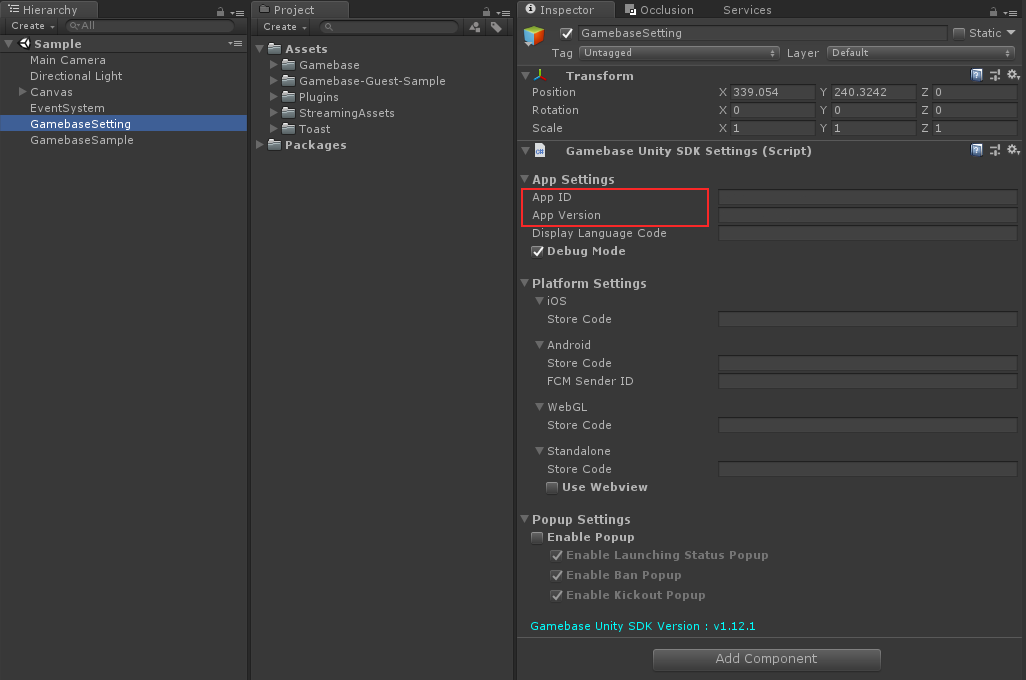
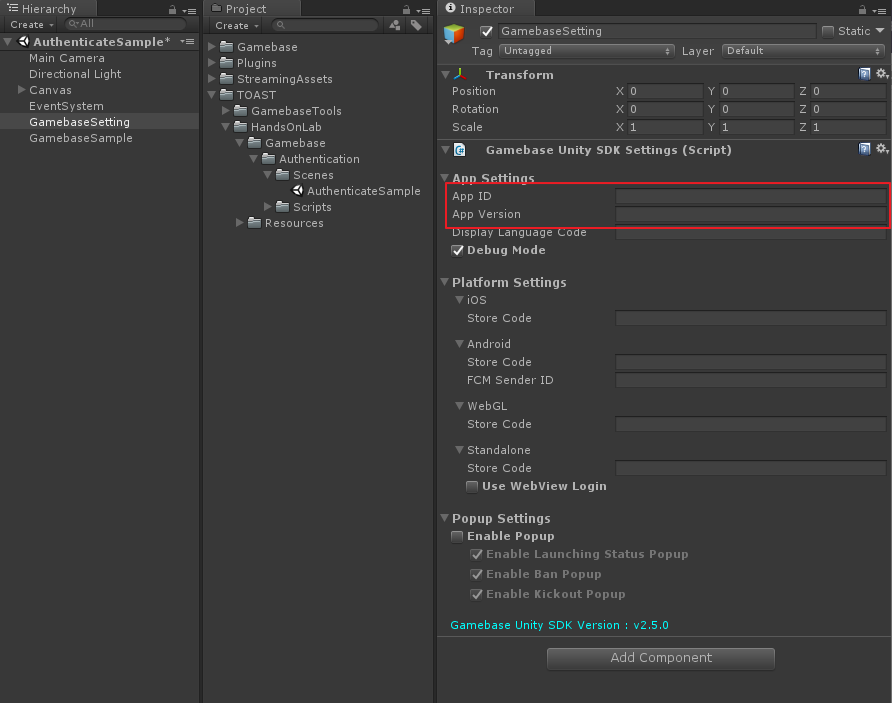
Update

Changed region(s): [[0.0, 0.0, 1.0, 1.0]]

diff --git a/site/_static/js/custom.js b/site/_static/js/custom.js
@@ -1,0 +1,13 @@
+function openCity(evt, cityName) {
+	var i, tabcontent, tablinks;
+	tabcontent = document.getElementsByClassName("gb-tabcontent");
+	for (i = 0; i < tabcontent.length; i++) {
+		tabcontent[i].style.display = "none";
+	}
+	tablinks = document.getElementsByClassName("gb-tablinks");
+	for (i = 0; i < tablinks.length; i++) {
+		tablinks[i].className = tablinks[i].className.replace(" active", "");
+	}
+	document.getElementById(cityName).style.display = "block";
+	evt.currentTarget.className += " active";
+}

diff --git a/site/_static/css/custom.css b/site/_static/css/custom.css
@@ -33,3 +33,7 @@ body,h1,h2,h3,h4,h5,h6,input,select,textarea,button,legend,.rst-content .toctree
     url('../font/noto-sans-kr-v12-korean_latin-700.woff2') format('woff2'), /* Super Modern Browsers */
     url('../font/noto-sans-kr-v12-korean_latin-700.woff') format('woff'), /* Modern Browsers */
 }
+
+.wy-nav-content {
+    max-width: 1100px;
+}

diff --git a/site/conf.py b/site/conf.py
@@ -57,9 +57,9 @@ source_encoding = 'utf-8'
 master_doc = 'index'
 
 # General information about the project.
-project = 'Gamebase Guest Login for Unity Android'
-copyright = 'NHN Corp. All rights reserved.'
-author = ''
+project = 'Gamebase Authenticate for Unity Android'
+copyright = 'NHN'
+author = 'sbs'
 
 # The version info for the project you're documenting, acts as replacement for
 # |version| and |release|, also used in various other places throughout the
@@ -137,6 +137,12 @@ html_theme = 'sphinx_rtd_theme'
 #
 html_theme_options = {
     'display_version': False,
+}
+
+html_context = {
+    'css_files': ['_static/css/custom.css'],
+    'script_files': ['_static/jquery.js', '_static/underscore.js', 
+    '_static/doctools.js', '_static/translations.js', '_static/js/custom.js'],
 }
 
 # Add any paths that contain custom themes here, relative to this directory.
@@ -349,5 +355,3 @@ texinfo_documents = [
 #
 # texinfo_no_detailmenu = False
 
-def setup(app):
-    app.add_stylesheet('css/custom.css')

diff --git a/site/07.rst b/site/07.rst
@@ -6,7 +6,7 @@ Unity 설정
 =====================
 
 1. Menu > Assets > Import Package > Custom Package
-2. **gamebase_unity_guest_login.unitypackage** 선택
+2. **gamebase_unity_authenticate_sample.unitypackage** 선택
 3. Import 클릭
 
 씬 이동
@@ -14,7 +14,7 @@ Unity 설정
 
 * 샘플 패키지에서 제공되는 씬으로 이동
 
-  * **Project View > Assets > Gamebase-Guest-Sample > Scene > Sample.scene** 파일 더블클릭.
+  * **Project View > Assets > TOAST > HandsOnLab > Gamebase > Authentication > Scene > AuthenticateSample.scene** 파일 더블클릭.
 
 Android Player 설정
 ========================
@@ -30,7 +30,7 @@ Android Player 설정
           - 2019.1.0부터 Internal Build System을 지원하지 않기 때문에 별도로 설정할 필요는 없습니다.
 
 2. 빌드 씬 추가
-    * **Project View > Assets > Gamebase-Guest-Sample > Scene > Sample.scene** 파일을 **Scenes In Build** 영역에 드래그 앤 드랍 
+    * **Project View > Assets > HandsOnLab > Sample > Authentication > Scene > AuthenticateSample.scene** 파일을 **Scenes In Build** 영역에 드래그 앤 드랍 
     * 첫 번째 목록으로 추가하셔야 합니다.
 
     .. image:: _static/image/unity-add-scene.gif
@@ -41,8 +41,8 @@ Android Player 설정
   Build Settings 윈도우에서 좌측 하단 **Player Settings** 클릭. 또는 Menu > Edit > Project Settings > Player
 
   * Company Name 입력 : nhn
-  * Product Name 입력 : GamebaseGuest
-  * Default Icon 선택 : Assets/Gamebase-Guest-Sample/Images/icon.png
+  * Product Name 입력 : HandsOnLab
+  * Default Icon 선택 : Assets/TOAST/HandsOnLab/Resources/Images/Icon/icon.png
 
       .. image:: _static/image/unity_player_settings.png
           :scale: 50%
@@ -50,41 +50,52 @@ Android Player 설정
   * **Resolution and Presention** 패널 클릭
       * **Defautl Orientation** 항목에서 Landscape Left로 설정
   * **Other Settings** 패널 클릭
-      * **Bundle identifier(또는 Package Name)** 입력 : com.nhn.gamebaseguest
+      * **Bundle identifier(또는 Package Name)** 입력 : 유니크한 값(토픽에서는 com.nhn.handsonlab로 진행 하도록 하겠습니다)        
   * **Keystore** 설정
-    
-    .. tip::
 
-      - 2019.1.0부터는 자동으로 debug keystore 설정을 해주기 때문에 별도로 설정할 필요는 없습니다.
+    .. tip::        
+          - Unity 5.6.6을 기준으로 작성되었습니다.
 
-      .. image:: _static/image/unity2019_keystore.png
+    .. image:: _static/image/keystore1_1.png
           :scale: 50%
 
-    * **Use Existing Keystore** 체크
+    * **Create a new Keystore** 체크
       
-      * **Browse Keystore** 클릭 후 Android Studio 또는 Android SDK 설치 폴더에서 **keystore** 선택
-          - Windows : **C:\\Users\\<USERNAME>\\.android\\debug.keystore**
+    *  **Browse Keystore** 클릭해서 **keystore** 생성 위치를 Android Studio 또는 Android SDK 설치 폴더를 선택한다.
 
-          - Mac/Linux : **$HOME/.android/debug.keystore**
+        - Windows : **C:\\Users\\<USERNAME>\\.android\\handsonlab.keystore**
 
-      .. tip:: 
-
-          - debug.keystore가 없거나 새로 만들고 싶은 경우에는 위 설명의 경로에 .android 폴더를 만들고 해당 폴더에서 다음 command를 실행하세요.
-
-          - keytool -genkeypair -alias androiddebugkey -keypass android -keystore debug.keystore -storepass android -dname "CN=Android Debug,O=Android,C=US" -validity 9999
+        - Mac/Linux : **$HOME/.android/handsonlab.keystore**
     
-      * **keystore password** 입력 : android
-      * **Alias** 선택 : androiddebugkey
-      * **Password** 입력 : android
 
-      .. image:: _static/image/unity-build-resolution.png
+    * **keystore password** 입력 : android
+
+    * **Confirm keystore password** 입력 : android
+
+    * **Alias** 선택 : Create a new key
+    
+        .. image:: _static/image/keystore1_2.png
           :scale: 50%
 
-      .. image:: _static/image/unity-build-bundleid.png
-          :scale: 50%
+        * Alias 입력 : handsonlab
 
-      .. image:: _static/image/unity-build-publishing.png
-          :scale: 50%
+        * Password 입력 : android
+
+        * Confirm 입력 :  android
+
+        * Validity 입력 : 50
+
+        * First and Last Name 입력 : name
+
+        * Organizational Unit 입력 : android
+
+        * Organization 입력 : nhn
+
+        * City or Locality 입력 : Bundang-gu
+
+        * State or Province 입력 : Seongnam-si
+
+        * Country Code 입력 : ko
 
 
 Build & Run
@@ -92,7 +103,7 @@ Build & Run
 
 1. Android 디바이스 연결
 2. **Menu > File > Build & Run**
-3. APK 파일 이름 지정 팝업이 뜰 경우 **gamebase-guest.apk** 로 설정
+3. APK 파일 이름 지정 팝업이 뜰 경우 **gamebase-handsonlab.apk** 로 설정
 4. 디바이스에서 실행 확인
 
 

diff --git a/site/10.rst b/site/10.rst
@@ -2,41 +2,14 @@
 Gamebase Initialize
 #######################
 
-
-UI 추가
-=========================
-
-Assets/Gamebase-Guest-Sample/Prefabs/ 폴더에서 InitButton, Status prefab 파일을 Hierarchy Window의 Guest 하위로 드래그 앤 드롭
-
-.. image:: _static/image/unity_add_initbutton_status.gif
-    :scale: 50%
-
-Text Object 연결
-=========================
-
-* Hierarchy Window > GamebaseSample 클릭
-* Status Text 연결
-
-.. image:: _static/image/connect_status.gif
-    :scale: 50%
-
-InitButton Event 설정
-=========================
-
-* InitButton의 OnClick() 이벤트를 GamebaseSample.GamebaseInitialize() 함수가 받도록 설정
-
-.. image:: _static/image/unity_init_button_event.gif
-    :scale: 50%
-
-
 Initialize 구현
 =========================
 
-* Assets/Gamebase-Guest-Sample/Script/GamebaseGuestSample.cs 파일의 GamebaseInitialize() 함수에 다음과 같이 코드 입력
+* Assets/TOAST/HandsOnLab/Gamebase/Authentication/Script/Authentication/GamebaseAuthenticateSample.cs 파일의 OnInitialize() 함수에 다음과 같이 코드 입력
 
 .. code-block:: C#
 
-    public void GamebaseInitialize()
+    public void OnInitialize()
     {
         Gamebase.Initialize((launchingInfo, error) =>
         {
@@ -68,12 +41,11 @@ Menu > File > Save Project
 
 1. Android 디바이스 연결
 2. **Menu > File > Build & Run**
-3. APK 파일 이름 지정 팝업이 뜰 경우 **gamebase-guest.apk** 로 설정
+3. APK 파일 이름 지정 팝업이 뜰 경우 **gamebase-handsonlab.apk** 로 설정
 4. 디바이스에서 실행 확인
 5. **Initialize** 버튼 클릭 후 Initialize 성공 확인
 
-.. image:: _static/image/run_initialize.png
-    :scale: 50%
+.. image:: _static/image/run_ui.png
 
 Troubleshooting
 ==================

diff --git a/site/11.rst b/site/11.rst
@@ -2,34 +2,14 @@
 Gamebase Guest Login
 #######################
 
-
-UI 추가
-===============================
-
-Assets/Gamebase-Guest-Sample/Prefabs/GuestLoginButton.prefab 파일을 Hierarchy Window의 Guest 하위로 드래그 앤 드롭
-
-.. image:: _static/image/unity_add_guestlogin_button.gif
-    :scale: 50%
-
-
-
-GuestLoginButton Event 설정
-===============================
-
-* GuestLoginButton의 OnClick() 이벤트를 GamebaseSample.GamebaseGuestLogin() 함수가 받도록 설정
-
-.. image:: _static/image/unity_guest_button_event.gif
-    :scale: 50%
-
-
 Guest Login 구현
 ===============================
 
-* Assets/Gamebase-Guest-Sample/Script/GamebaseGuestSample.cs 파일의 GamebaseGuestLogin() 함수에 다음과 같이 코드 입력
+* Assets/TOAST/HandsOnLab/Gamebase/Authentication/Script/Authentication/GamebaseAuthenticateSample.cs 파일의 OnLogin() 함수에 다음과 같이 코드 입력
 
 .. code-block:: C#
 
-    public void GamebaseGuestLogin()
+    public void OnLogin()
     {
         Gamebase.Login(GamebaseAuthProvider.GUEST, (authToken, error) =>
         {
@@ -53,13 +33,12 @@ Menu > File > Save Project
 
 1. Android 디바이스 연결
 2. **Menu > File > Build & Run**
-3. APK 파일 이름 지정 팝업이 뜰 경우 **gamebase-guest.apk** 로 설정
+3. APK 파일 이름 지정 팝업이 뜰 경우 **gamebase-handsonlab.apk** 로 설정
 4. 디바이스에서 실행 확인
 5. **Initialize** 버튼 클릭 후 Initialize 성공 확인
-6. **Guest Login** 버튼 클릭 후 로그인 성공 확인
+6. **Login** 버튼 클릭 후 로그인 성공 확인
 
-.. image:: _static/image/run_login.png
-    :scale: 50%
+.. image:: _static/image/run_ui.png
 
 
 Troubleshooting

diff --git a/site/12.rst b/site/12.rst
@@ -2,34 +2,14 @@
 Gamebase Logout
 #######################
 
-
-UI 추가
-===============================
-
-Assets/Gamebase-Guest-Sample/Prefabs/Logout.prefab 파일을 Hierarchy Window의 Guest 하위로 드래그 앤 드롭
-
-.. image:: _static/image/unity_add_logout_button.gif
-    :scale: 50%
-
-
-LogoutButton Event 설정
-===============================
-
-* LogoutButton OnClick() 이벤트를 GamebaseSample.GamebaseLogout() 함수가 받도록 설정
-
-.. image:: _static/image/unity_logout_button_event.gif
-    :scale: 50%
-
-
-
 Logout 구현
 ===============================
 
-* Assets/Gamebase-Guest-Sample/Script/GamebaseGuestSample.cs 파일의 GamebaseLogout() 함수에 다음과 같이 코드 입력
+* Assets/TOAST/HandsOnLab/Gamebase/Authentication/Script/Authentication/GamebaseAuthenticateSample.cs 파일의 OnLogout() 함수에 다음과 같이 코드 입력
 
 .. code-block:: C#
 
-    public void GamebaseLogout()
+    public void OnLogout()
     {
         Gamebase.Logout((error) =>
         {
@@ -52,14 +32,13 @@ Menu > File > Save Project
 
 1. Android 디바이스 연결
 2. **Menu > File > Build & Run**
-3. APK 파일 이름 지정 팝업이 뜰 경우 **gamebase-guest.apk** 로 설정
+3. APK 파일 이름 지정 팝업이 뜰 경우 **gamebase-handsonlab.apk** 로 설정
 4. 디바이스에서 실행 확인
 5. **Initialize** 버튼 클릭 후 Initialize 성공 확인
-6. **Guest Login** 버튼 클릭 후 Login 성공 확인
+6. **Login** 버튼 클릭 후 Login 성공 확인
 7. **Logout** 버튼 클릭 후 Logout 성공 확인
 
-.. image:: _static/image/run_logout.png
-    :scale: 50%
+.. image:: _static/image/run_ui.png
 
 
 Troubleshooting

diff --git a/site/02.rst b/site/02.rst
@@ -2,4 +2,4 @@
 샘플 코드
 ######################
 
-`gamebase_unity_guest_login.unitypackage 다운로드 <http://static.toastoven.net/toastcloud/sdk_download/gamebase/HandsonLab/Unity/gamebase_unity_guest_login.unitypackage>`_
+`gamebase_unity_authenticate_sample.unitypackage 다운로드 <http://static.toastoven.net/toastcloud/sdk_download/gamebase/HandsonLab/Unity/gamebase_unity_authenticate_sample.unitypackage>`_

diff --git a/site/09.rst b/site/09.rst
@@ -14,7 +14,7 @@ AndroidManifest 파일 복사
 AndroidManifest 파일 수정
 ===========================
 
-* package name 변경: com.nhn.gamebaseguest
+* package name 변경: com.nhn.handsonlab
 * activity name 변경 : com.toast.android.gamebase.activity.GamebaseMainActivity
 
 .. image:: _static/image/androidmanifest.png

diff --git a/site/index.rst b/site/index.rst
@@ -1,11 +1,11 @@
 ****************************************
-Gamebase Guest Login for Unity Android
+Gamebase Authenticate for Unity Android
 ****************************************
 
 * 카테고리: API 
 * 레벨: 초급
 * 시간: 15분
-* 업데이트: 2019.08.06
+* 업데이트: 2019.10.16
 
 
 .. toctree:: 
